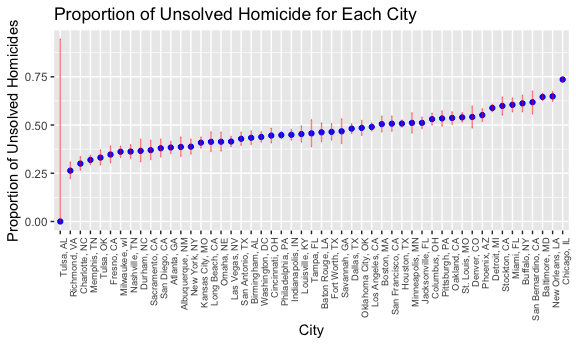
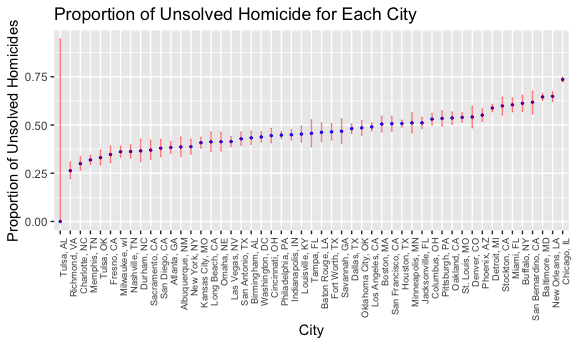
Finishing HW5

diff --git a/p8105_hw5_kb2977.md b/p8105_hw5_kb2977.md
@@ -265,7 +265,7 @@ plot_1
 
 <img src="p8105_hw5_kb2977_files/figure-markdown_github/plot_data-1.png" width="90%" />
 
-Overall, the experimental study arm has bigger values than the control arm. As time goes on, the difference between the two study arms increases. At week 1, the observations overlab between the two study arms whereas by week 8, the observations between two arms do not overlap.
+Overall, the experimental study arm had greater observation values than the control arm. As time goes on, the difference between the two study arms increased. At week 1, the observations overlabed between the two study arms whereas by week 8, the observations between two arms did not overlap.
 
 Problem 2
 ---------
@@ -388,7 +388,7 @@ Below I've created a plot that shows the estimates and CIs for each city. I've o
 ``` r
 plot_2 = each_city_nest %>%
   ggplot(aes(x = city_state, y = estimate)) + 
-    geom_point(aes(reorder(city_state, estimate)), color = "BLUE") +
+    geom_point(aes(reorder(city_state, estimate)), size = 0.5, color = "BLUE") +
     geom_errorbar(aes(ymin = lower_CI, ymax = upper_CI), 
                   color = "RED", 
                   width = 0.1, 
